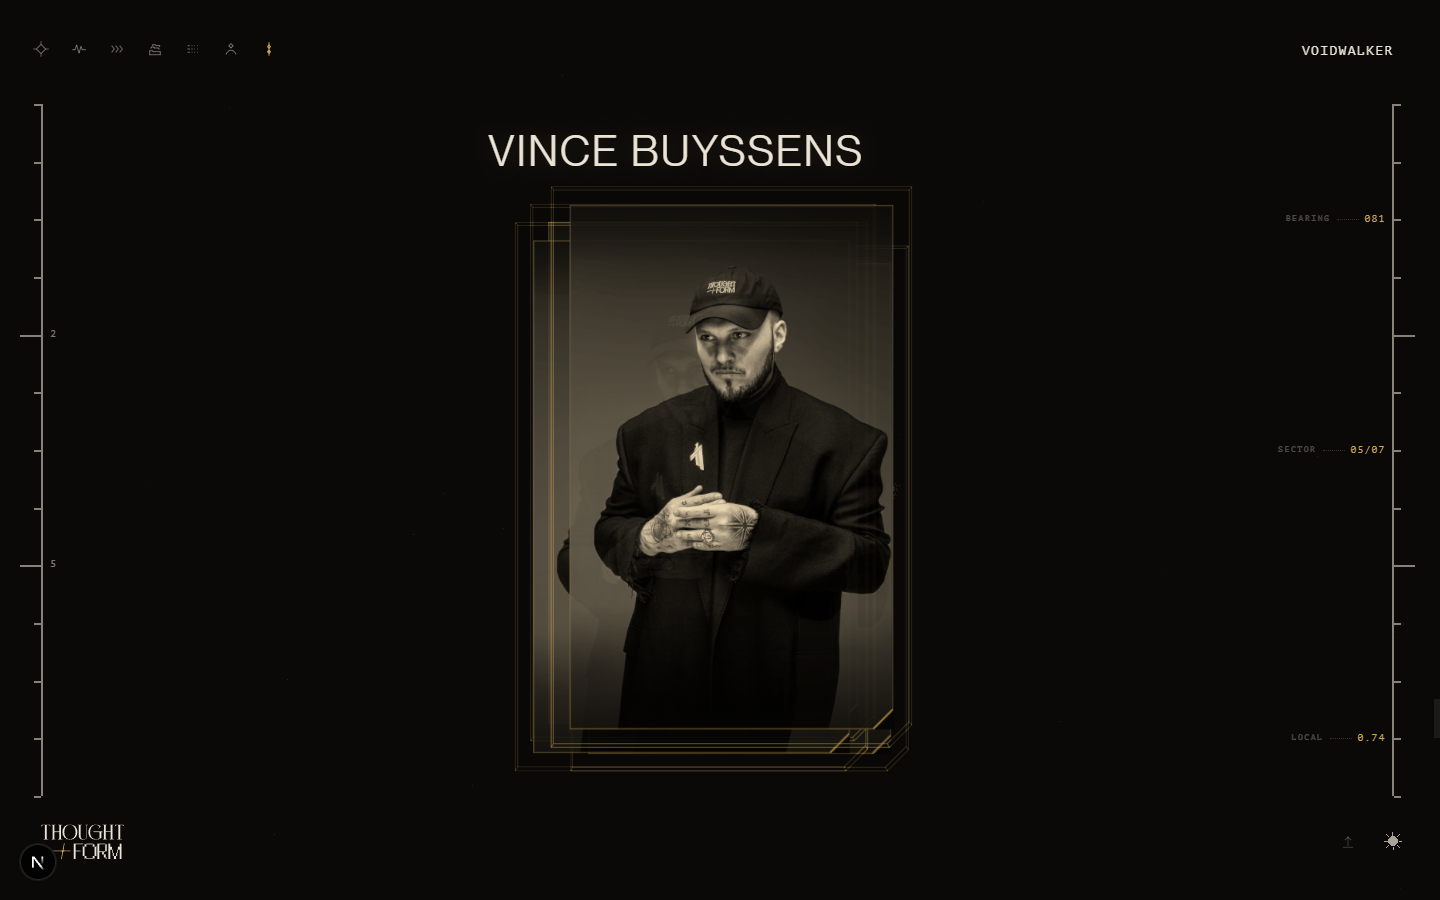
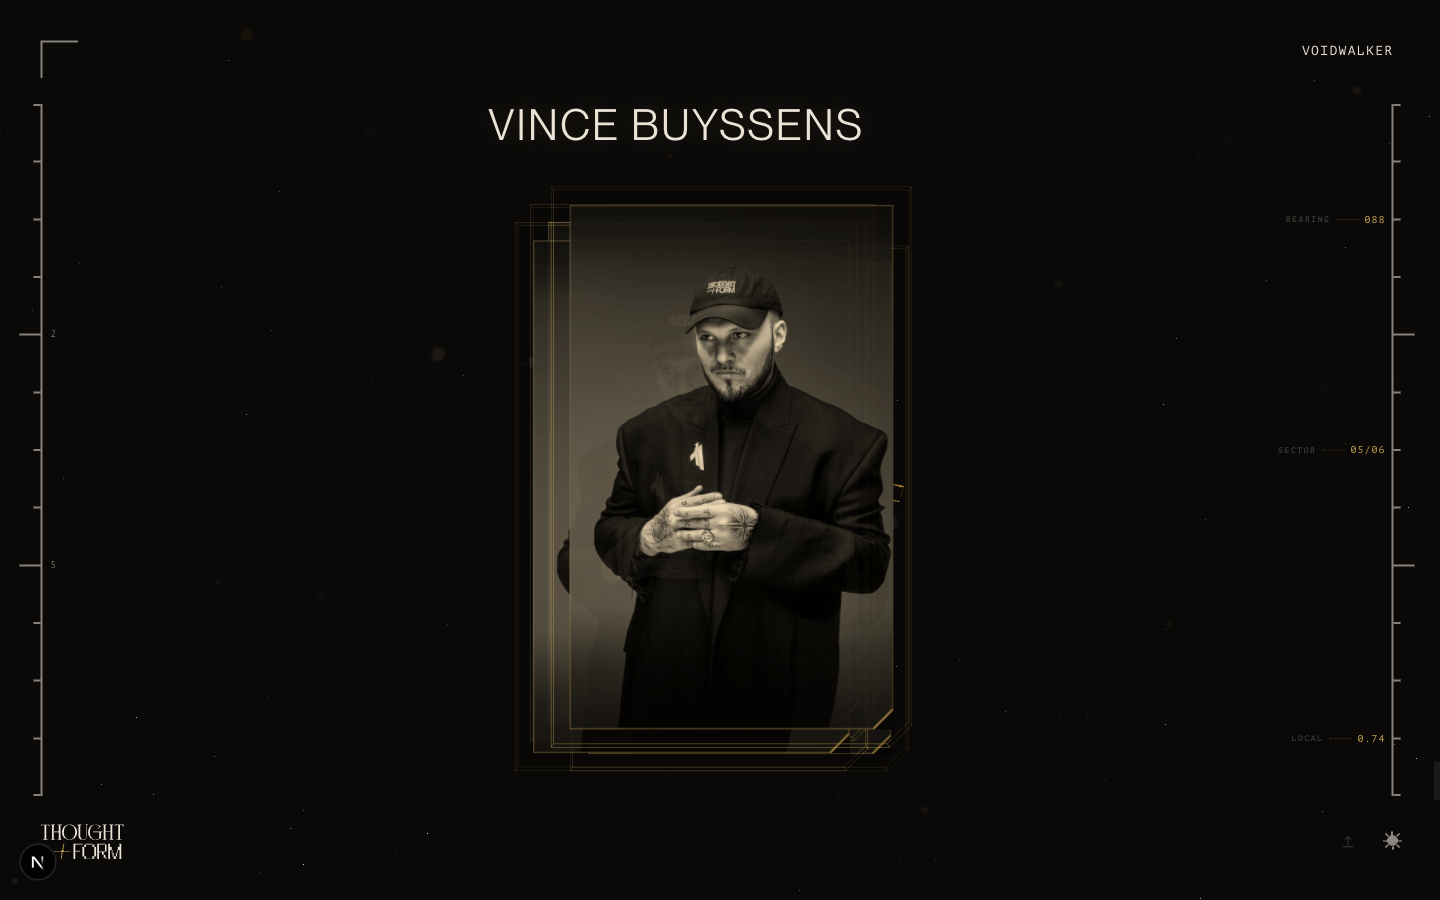
feat(voidwalker): the era's mast rises off the bracket's foot (ADR-082 U22)
U20 seated the block on the HUD rail's top line, and the glyph it put there
is the KICKER — the four panel heads it was actually about have never been on
that line, they sit ~67px below it at the mast's foot. So the one lead splits
in two: the stage keeps `--vwd-pad-top` and does not move a pixel, the mast
takes the new `--vwd-mast-top` and hangs from `--hud-corner-foot` instead,
one `clamp(16px, 1.8vw, 32px)` higher — that clearance is air for a DRAWN
LINE and type does not need it. U20 is narrowed, not reversed.

The split is conservative by construction: the total is unchanged, so
`--vwd-chrome-h` and the figure column are byte-identical (460px, at its cap,
before and after). Title rises 23.0 / 19.8 / 25.9 / 32.0px at the four
reference rungs.

Second half is the pooled floor. `.vwd__body` is `overflow: hidden` with its
content top-anchored inside a `1fr` row, so surplus falls to a floor with
nothing to show — 177px under every panel at 1920x1247 against 14 at
1280x720. `--vwd-trail` moves a bounded share to between the title and the
heads, where air reads as composition: the gap goes 48.4 -> 136.4px and the
foot 177 -> 149. Its 56px ceiling is DERIVED from the figure's 494-against-460
cap headroom, and `calc(100svh - 1100px)` holds it at exactly 0 at every tight
rung, which the probe's unchanged 14 / 51 / 69 is the proof of.

`--hud-corner-foot` and `--hud-rail-y-clear` are tokens now, which makes true
[…]

diff --git a/components/landing/home-v2/voidwalker/hologram/voidwalker-datum.css b/components/landing/home-v2/voidwalker/hologram/voidwalker-datum.css
@@ -97,7 +97,7 @@
      230px floor binds — see `--vwd-pad-top`. */
   --vwd-chrome-h: calc(
     var(--vwd-bar-h) + 104px + var(--vwd-band-h) + 44px +
-      (var(--vwd-pad-top) - var(--vwd-pad-top-min))
+      (var(--vwd-pad-top) - var(--vwd-pad-top-min)) + var(--vwd-trail)
   );
   --vwd-fig-w: clamp(230px, calc((100svh - var(--vwd-chrome-h)) * 0.5625), 460px);
 
@@ -114,7 +114,25 @@
   /* ⚠ THE BLOCK HANGS FROM THE HUD RAIL'S OWN TOP LINE — see the gated rule
      below for why the datum cannot live here. Base value only. */
   --vwd-pad-top-min: clamp(14px, 2.4svh, 26px);
+  /* The TOTAL lead above the STAGE's first row — unchanged in name, in value
+     and in every consumer. */
   --vwd-pad-top: var(--vwd-pad-top-min);
+  /* ⚠ THE MAST'S OWN LEAD, SPLIT OUT OF THE TOTAL (ADR-082 U22). U20 seated
+     the block on the rail's top line and the glyph it put there is the
+     KICKER — the four panel heads it was actually about have never been on
+     that line, they sit ~67px below it at the mast's foot. So the mast can
+     rise without moving a head: the stage keeps `--vwd-pad-top`, the mast
+     takes this. The split is CONSERVATIVE — the total does not change, so
+     `--vwd-chrome-h` and `--vwd-fig-w` are byte-identical.
+     ⚠ IT MUST READ `--vwd-pad-top-min` HERE, NEVER `--vwd-pad-top`: custom
+     properties substitute at computed-value time on the same element, so a
+     base declaration reading the total would silently follow the gated
+     override below and the split would evaporate with nothing to throw. */
+  --vwd-mast-top: var(--vwd-pad-top-min);
+  /* Air between the title and the four heads, spent out of the surplus that
+     otherwise pools under each body. Exactly 0 wherever the datum does not
+     apply, and at every tight reference rung — see the gated rule. */
+  --vwd-trail: 0px;
 
   /* ⚠ A BOUNDED HEIGHT, NOT A FLOOR. Every `flex: 1 1 auto` below needs
      something to shrink against; with `min-height` alone the sheet grows to
@@ -180,6 +198,22 @@
 @media (min-height: 720px) {
   #voidwalker[data-vw-mode="hologram"] .vwd {
     --vwd-pad-top: max(var(--vwd-pad-top-min), var(--hud-rail-y-start, 104px));
+    /* ⚠ THE MAST HANGS FROM THE BRACKET'S FOOT, ONE CLEARANCE HIGHER
+       (ADR-082 U22). `--hud-rail-y-start` IS that foot plus
+       `clamp(16px, 1.8vw, 32px)`, and landing.css records what the clearance
+       is for: "the rail never touches the corner chrome or the wordmark". It
+       is air for a DRAWN LINE, and type does not need it. Measured: the title
+       rises 23.0px at 1280x720, 25.9 at 1440x900, 32.0 at 1920x1247. */
+    --vwd-mast-top: max(var(--vwd-pad-top-min), var(--hud-corner-foot, 78px));
+    /* ⚠ 56 IS DERIVED, NOT CHOSEN. At 1920x1247 the figure's own derivation
+       yields (1247 - 369) * 0.5625 = 494 against the clamp's 460px CAP, i.e.
+       34px of dead headroom, i.e. 34 / 0.5625 = 60px of height that can be
+       spent before the column narrows by a single pixel. 56 is that budget
+       with slack; re-derive it rather than keeping the number if the cap
+       moves. The `100svh - 1100px` term holds it at exactly 0 at 1280x720,
+       1101x800 and 1440x900 — every tight rung is byte-identical, and there
+       was no slack there to spend anyway. */
+    --vwd-trail: clamp(0px, calc(100svh - 1100px), 56px);
   }
 }
 
@@ -190,7 +224,7 @@
   display: grid;
   grid-template-rows: auto minmax(0, 1fr) auto;
   min-height: 0;
-  padding: var(--vwd-pad-top) 0 0;
+  padding: var(--vwd-mast-top) 0 0;
   overflow: hidden;
 }
 
@@ -212,6 +246,17 @@
    instrument reshaping under the reader. The cap also keeps the wrap point
    constant. */
 .vwd__mast {
+  /* ⚠ THE REMAINDER OF THE LEAD, PLUS THE TRAIL (ADR-082 U22). The sheet took
+     the mast's own lead above; what the stage was owed is paid here, so the
+     four heads, the figure and the band do not move by a pixel. It rides the
+     MAST'S MARGIN and never `.vwd__stage`'s `padding-top`: the phone rung
+     declares that as a LONGHAND (see the small-screen block) which beats a
+     shorthand "today by luck rather than by intent" — its own words — and a
+     fourth term in that specificity race is how this breaks later. A margin on
+     row 1 of an `auto minmax(0,1fr) auto` grid moves the stage down by exactly
+     the trail and shrinks its content box by exactly the trail. Outside the
+     gate every term is 0, so this computes to 0px. */
+  margin-bottom: calc(var(--vwd-pad-top) - var(--vwd-mast-top) + var(--vwd-trail));
   display: grid;
   justify-items: center;
   width: min(calc(100% - 2 * var(--vwd-pad-x)), 760px);

diff --git a/components/landing/v7/landing.css b/components/landing/v7/landing.css
@@ -66,9 +66,19 @@
      keeps it 8px above the wordmark on short viewports. Both ends are TOKENS
      so no mirror can drift; what "connected" ever meant was the END TICKS
      sitting flush at the rail's ends (tick rules below). */
-  --hud-rail-y-start: calc(var(--hud-margin) + var(--hud-corner-zone) + clamp(16px, 1.8vw, 32px));
+  /* ⚠ THE FOOT AND THE CLEARANCE ARE TOKENS NOW (ADR-082 U22). The comment
+     above already claimed "both ends are TOKENS so no mirror can drift" — and
+     they were not: the sum was spelled out twice, once here and once inside
+     the max() below. Naming the two halves makes that claim true, and it gives
+     the era stage's mast a datum to hang from: `--hud-corner-foot` is a DRAWN
+     LINE (the TL bracket's foot), while `--hud-rail-y-clear` is the air the
+     TRACK keeps off the corner chrome. Type does not need that clearance.
+     ⚠ Every computed value here is byte-identical to what it replaced. */
+  --hud-corner-foot: calc(var(--hud-margin) + var(--hud-corner-zone));
+  --hud-rail-y-clear: clamp(16px, 1.8vw, 32px);
+  --hud-rail-y-start: calc(var(--hud-corner-foot) + var(--hud-rail-y-clear));
   --hud-rail-y-end: max(
-    calc(var(--hud-margin) + var(--hud-corner-zone) + clamp(16px, 1.8vw, 32px)),
+    calc(var(--hud-corner-foot) + var(--hud-rail-y-clear)),
     calc(var(--hud-margin) + clamp(44px, 3.6vw, 63px) + 8px)
   );
   /* Guide hairline offset from the rail-aside outer edge. Held at 0

diff --git a/app/(internal)/test/voidwalker-datum-lab/voidwalker-datum-lab.css b/app/(internal)/test/voidwalker-datum-lab/voidwalker-datum-lab.css
@@ -34,6 +34,14 @@
 @media (min-height: 720px) {
   .dlab.vwd {
     --vwd-pad-top: max(var(--vwd-pad-top-min), var(--hud-rail-y-start, 104px));
+    /* ⚠ ALL THREE, FOR THE SAME REASON (ADR-082 U22). The mast/stage split and
+       the trail are declared in the same gated rule in production, so a lab
+       that re-declared only the total would hang its MAST ~26px lower than the
+       landing and show none of the air between the title and the heads — the
+       same class of lie U20's note above is about, one term further in. Move
+       one rung, move the other. */
+    --vwd-mast-top: max(var(--vwd-pad-top-min), var(--hud-corner-foot, 78px));
+    --vwd-trail: clamp(0px, calc(100svh - 1100px), 56px);
   }
 }
 

diff --git a/sentinel/decisions/082-voidwalker-character-stage.md b/sentinel/decisions/082-voidwalker-character-stage.md
@@ -2165,3 +2165,104 @@ fallback contract against the alpha branch), and the handoff flight asserts
 left/top only (width 480 vs 407 and height 56 vs 42 are the two elements'
 own boxes — content-sized string vs fixed measure, by U11's ruling); the
 ambient-hold case passes.
+
+## Update 22 — the mast rises off the bracket's foot (2026-09-17, owner)
+
+_"In the Era section, do you think we need to place the title (ie The Azeroth
+Teacher etc) a bit higher? … take a look at our era so the elements have more
+breathing room."_ The reference he named is the Linear-inspired head datum this
+house shipped on the proposal pages (ADR-099 U2).
+
+**U20 IS NARROWED, NOT REVERSED, AND THE FINDING IS WHICH GLYPH IT SEATED.**
+U20 put the block on `--hud-rail-y-start` after the owner said SCOPE, FACTS and
+the rest were _"so high, hugging the top part"_ — but the glyph that landed on
+that line is the **KICKER**. The four panel heads he was actually talking about
+have never been on it: they sit at the mast's foot, ~67px below (measured
+201.9 against the kicker's 131 at 1920×1247). So the block's ONE lead can be
+split in two, and the title can rise without a single head moving.
+
+`--vwd-pad-top` stays the TOTAL lead and every consumer keeps reading it;
+`--vwd-mast-top` is new and is what `.vwd__sheet` pads by; `.vwd__mast` carries
+the remainder as a bottom margin. ⚠ **THE SPLIT IS CONSERVATIVE BY
+CONSTRUCTION** — the total does not change, so `--vwd-chrome-h` and
+`--vwd-fig-w` are byte-identical and the figure column does not move (measured
+460px, at its clamp cap, before and after).
+
+**THE DATUM IT MOVES TO IS ALREADY A DRAWN LINE.** `--hud-rail-y-start` is the
+TL bracket's foot **plus `clamp(16px, 1.8vw, 32px)`**, and `landing.css` records
+what that term is for: _"the rail never touches the corner chrome or the
+wordmark"_. It is clearance for a **DRAWN LINE**, and type does not need it.
+`--hud-corner-foot` and `--hud-rail-y-clear` are tokens now, which also makes
+true a claim the rail's own comment already made — _"both ends are TOKENS so no
+mirror can drift"_ — where the sum had in fact been spelled out twice, once in
+`--hud-rail-y-start` and once inside `--hud-rail-y-end`'s `max()`. Every
+computed value is unchanged.
+
+Measured title rise: **23.0px at 1280×720 · 19.8 at 1101×800 · 25.9 at
+1440×900 · 32.0 at 1920×1247** (kicker 131 → 99 at the owner's shape).
+
+**AND THE SECOND HALF IS THE POOLED FLOOR.** `.vwd__stage`'s rows are
+`auto minmax(0,1fr) auto minmax(0,1fr)` and `.vwd__body` is `overflow: hidden`
+with its content top-anchored, so surplus falls to the floor of a box with no
+floor to show — 177px under every panel at 1920×1247 against 14px at 1280×720.
+ADR-070 U14's law and ADR-099 U2's own measurement, on a third surface.
+`--vwd-trail` moves a bounded share of it to between the title and the heads,
+the one place on this composition where air reads as composition rather than as
+a hole. Measured after: the title-to-head gap goes **48.4 → 136.4px** and the
+per-panel foot **177 → 149**.
+
+⚠ **56 IS DERIVED, NOT CHOSEN.** At 1920×1247 the figure's own derivation yields
+`(1247 − 369) × 0.5625 = 494` against the clamp's **460px cap** — 34px of dead
+headroom, i.e. `34 / 0.5625 = 60px` of height that can be spent before the
+column narrows by one pixel. 56 is that budget with slack; **re-derive it rather
+than keeping the number if the cap moves.** `clamp(0px, calc(100svh - 1100px),
+56px)` holds it at exactly **0 at 1280×720, 1101×800 and 1440×900** — every
+tight rung is byte-identical (foot 14 / 51 / 69 before and after), and there was
+no slack at those rungs to spend.
+
+⚠ **THE TRAIL RIDES THE MAST'S MARGIN, NEVER `.vwd__stage`'s `padding-top`.**
+The phone rung declares that as a LONGHAND which beats a shorthand _"today by
+luck rather than by intent"_ — its own comment — and a fourth term in that
+specificity race is how this breaks later. A margin on row 1 of the sheet's
+three-row grid moves the stage down by exactly the trail and shrinks its content
+box by exactly the trail.
+
+⚠ **`--vwd-mast-top`'s BASE MUST READ `--vwd-pad-top-min`, NEVER
+`--vwd-pad-top`.** Custom properties substitute at computed-value time on the
+same element, so a base declaration reading the total would silently follow the
+gated override and the split would evaporate with nothing to throw.
+
+⚠ **`--vwd-chrome-h` GAINS THE TRAIL AND ONLY THE TRAIL.** The split conserves
+the total and adds nothing; the trail is genuinely new height above the stage,
+and the block's own comment forbids folding a new term into the tuned
+`104 + 44` surplus — so it is added as its own difference, exactly as
+`--vwd-pad-top` was.
+
+**THE HANDOFF NEEDED NO LOCKSTEP, AND THAT WAS VERIFIED RATHER THAN ASSUMED.**
+`useVoidwalkerHologramScroll` resolves the era title through `futurePinnedRect()`,
+which walks the real `offsetParent` chain; `aboutVoidwalkerHandoff` is
+position-only; and the spec recomputes the target with its own copy of that
+walk. No literal anywhere. ⚠ One caveat for a future pass: the targets republish
+on a `ResizeObserver` that a pure POSITION change does not fire — safe here
+because this is static CSS resolved before first measurement, but a
+runtime-varying lead would need an explicit republish.
+⚠ `.vwd__mast__title`'s `clamp(26px, 3vw, 44px)` is untouched — byte-locked to
+`.voidwalker__name`, which translates into it without scaling (U6 §1).
+
+**THE LAB RE-DECLARES ALL THREE**, for U20's own reason one term further in: a
+lab that re-declared only the total would hang its mast ~26px lower than the
+landing and show none of the new air. Move one rung, move the other.
+
+⚠ **STILL OPEN, UNCHANGED: 1752×599 clips** (Scope +64 / Facts +43). It is below
+the `min-height: 720px` gate, keeps the compact padding, and this pass neither
+helps nor harms it. And at 1280×720 nothing improves but the title's seat —
+the trail is 0 there by construction and the foot stays at 14px.
+
+**Verifying:** `node scripts/probe-voidwalker-eras.mjs --vp 1280x720`
+(and 1101×800 / 1440×900 / 1920×1247 — all clean, foot 14 / 51 / 69 / 149);
+`node scripts/probe-datum-motion.mjs` (translateX exactly 0 at rest for every
+actor, the reel's `220 / 0 / -220` the one recorded exception);
+`node scripts/probe-about-seam.mjs` (transparent across all four samples);
+`npx playwright test tests/visual/about-voidwalker-handoff.spec.ts` (3 passed).
+⚠ Any `foot` movement at the three tight rungs means the lead was not
+conserved — that is the assertion this split lives or dies on.

diff --git a/.claude/rules/voidwalker.md b/.claude/rules/voidwalker.md
@@ -124,10 +124,34 @@ composition's own entry/exit block, its responsive rungs, and
   shortest reference viewport: the capable gate is width-only, so a half-height
   window on a wide monitor enters hologram mode at 599px tall, where the datum's
   89px comes straight out of the body rows.
-  ⚠ **The lab re-declares BOTH by hand** (`voidwalker-datum-lab.css`) — a rule
-  the lab's selector cannot reach is a composition the lab cannot show, and
+  ⚠ **The lab re-declares ALL THREE by hand** (`voidwalker-datum-lab.css`) — a
+  rule the lab's selector cannot reach is a composition the lab cannot show, and
   without it the window would hang 82px higher than the landing with a figure
   column 15px wider. Move one rung, move the other.
+- ⚠ **THE LEAD IS SPLIT IN TWO, AND U20's DATUM SEATED THE KICKER (ADR-082
+  U22).** The four panel heads U20 was about have never been on the rail line —
+  they sit ~67px below it at the mast's foot. So `--vwd-pad-top` stays the TOTAL
+  lead (every consumer keeps reading it, `--vwd-chrome-h` included), the new
+  `--vwd-mast-top` is what `.vwd__sheet` pads by, and `.vwd__mast` carries the
+  remainder plus `--vwd-trail` as a bottom margin. The mast hangs from
+  `--hud-corner-foot` — the TL bracket's foot — because `--hud-rail-y-start` is
+  that foot plus `clamp(16px, 1.8vw, 32px)` of clearance **for a drawn line**,
+  which type does not need. Title rises 23.0 / 19.8 / 25.9 / 32.0px at the four
+  reference rungs.
+  ⚠ **THE SPLIT IS CONSERVATIVE OR IT IS BROKEN** — the total does not change,
+  so the figure column and every head are byte-identical, and the probe's `foot`
+  at 1280×720 / 1101×800 / 1440×900 (14 / 51 / 69) is the assertion that says
+  so. Any movement there means the lead was not conserved.
+  ⚠ **`--vwd-mast-top`'s BASE READS `--vwd-pad-top-min`, NEVER `--vwd-pad-top`**
+  — custom properties substitute at computed-value time on the same element, so
+  the base would silently follow the gated override and the split would
+  evaporate with nothing to throw.
+  ⚠ **`--vwd-trail` RIDES THE MAST'S MARGIN, never `.vwd__stage`'s
+  `padding-top`** (the phone rung declares that as a longhand which beats a
+  shorthand by luck, not intent), and `--vwd-chrome-h` charges it as its OWN
+  difference — never folded into the tuned `104 + 44` surplus. Its 56px ceiling
+  is DERIVED from the figure's 494-against-460 cap headroom; re-derive it if the
+  cap moves.
   ⚠ **IT COSTS THE PANELS ~13 % OF THE FIGURE COLUMN AND 32–53px OF BODY ROW,**
   paid back out of band padding, the facts' own gap and row padding, and body
   padding-bottom — chrome first, rhythm second, **never the type**. Measured
